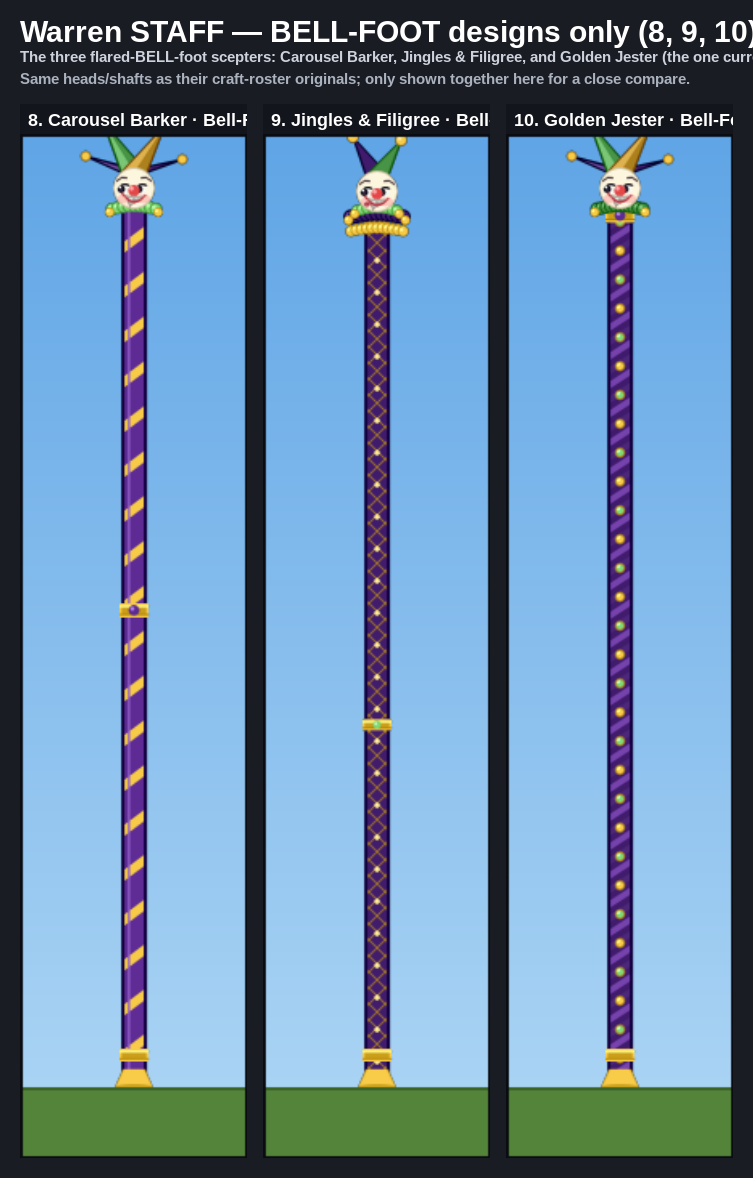
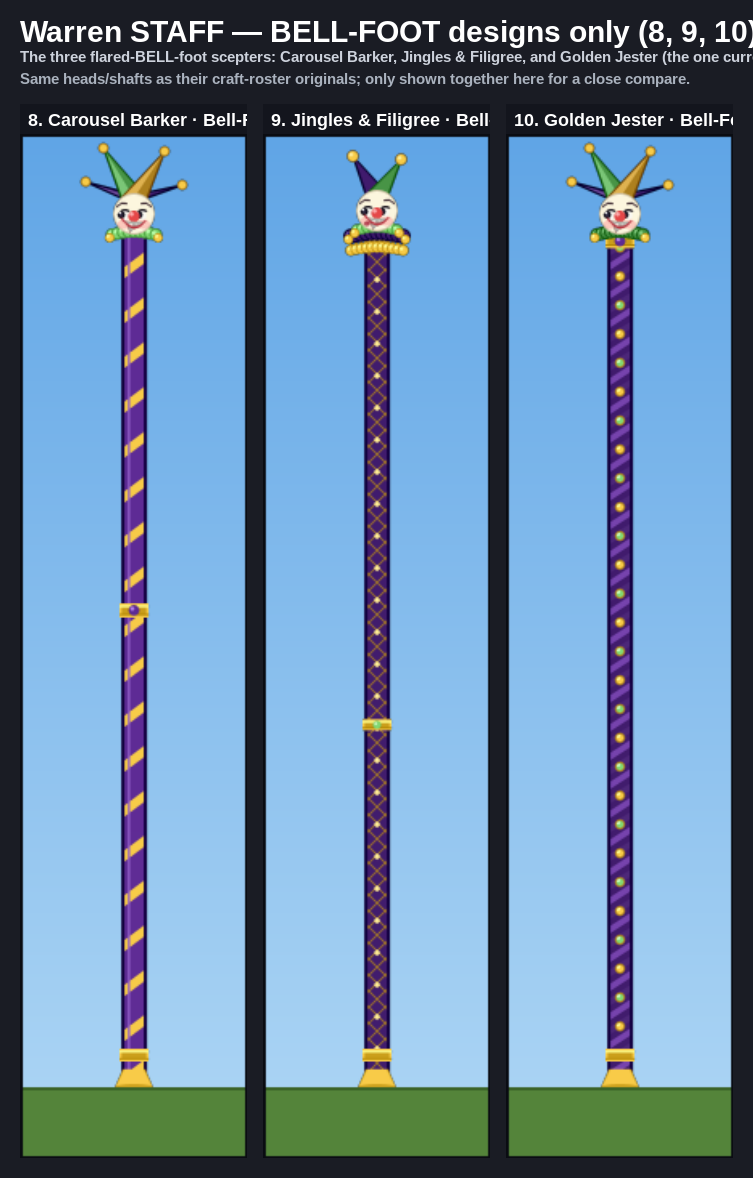
Bell-foot staffs: seat head lower so the cap clears the box top
The tall jester-cap horns were drawn above the prop box top and got
clipped, cutting the cap and hiding the gold bells on the upper points.
Seat the head lower (hy bump) in prop_14l/14m/14n so the full cap + a
gold bell on every cap point render with sky room above. Re-render the
8/9/10 bell-foot design sheet.

Changed region(s): [[0.7331, 0.1222, 0.9163, 0.8862], [0.0916, 0.0917, 0.2444, 0.8862], [0.4582, 0.0917, 0.5498, 0.9168]]

diff --git a/tools/render_warren_sword.py b/tools/render_warren_sword.py
@@ -2798,7 +2798,8 @@ def prop_14k(surf, bw, bh, ss):
 def prop_14l(surf, bw, bh, ss):
     cx = bw // 2
     hr = int(13 * ss)
-    hy = int(34 * ss)
+    hy = int(50 * ss)                      # seat the head lower so the tall cap +
+                                           # its bell tips clear the box top (no clip)
     shaft_top = hy + hr
     hwid = int(7 * ss)
     _shaft_twist(surf, cx, shaft_top, bh - int(7 * ss), hwid, ss, PLUM, GOLD, PLUM_DK)
@@ -2828,7 +2829,8 @@ def prop_14l(surf, bw, bh, ss):
 def prop_14m(surf, bw, bh, ss):
     cx = bw // 2
     hr = int(13 * ss)
-    hy = int(36 * ss)
+    hy = int(48 * ss)                      # seat the head lower so the tall cap +
+                                           # its bell tips clear the box top (no clip)
     shaft_top = hy + hr
     hwid = int(7 * ss)
     _shaft_guilloche(surf, cx, shaft_top, bh - int(7 * ss), hwid, ss, PLUM, PLUM_DK)
@@ -2858,7 +2860,8 @@ def prop_14m(surf, bw, bh, ss):
 def prop_14n(surf, bw, bh, ss):
     cx = bw // 2
     hr = int(13 * ss)
-    hy = int(34 * ss)
+    hy = int(50 * ss)                      # seat the head lower so the tall cap +
+                                           # its bell tips clear the box top (no clip)
     shaft_top = hy + hr
     hwid = int(7 * ss)
     _shaft_spiral_flute(surf, cx, shaft_top, bh - int(7 * ss), hwid, ss, PLUM, PLUM_DK,
